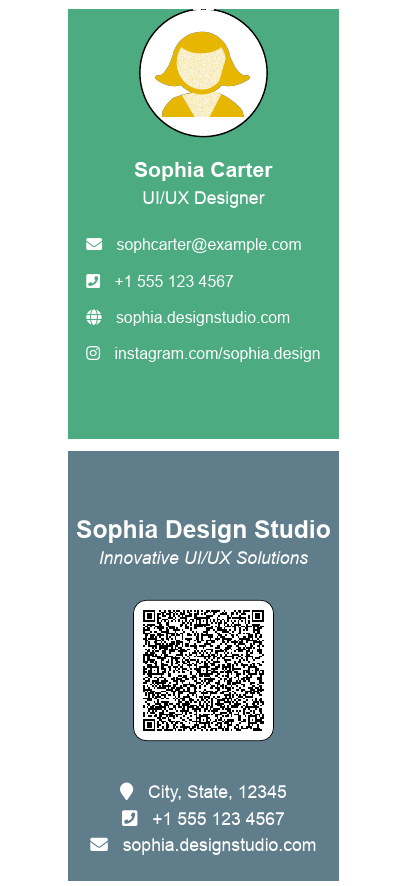
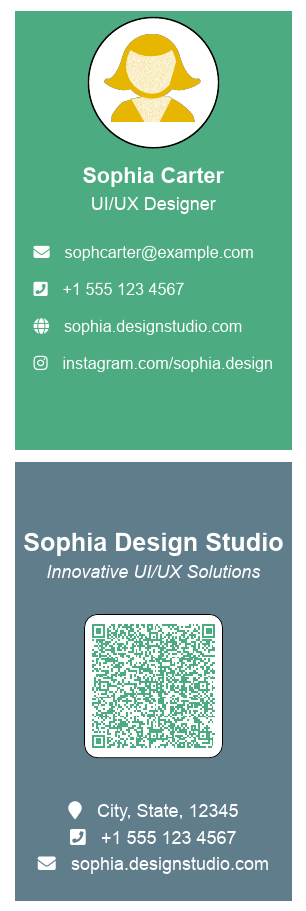
Updated design visuals and refreshed LaTeX template.

diff --git a/modern/UI_UX_Designer/main.tex b/modern/UI_UX_Designer/main.tex
@@ -37,7 +37,7 @@
 		
 		% Profile picture (example as a circle)
 		\draw[fill=white,thick] 
-		([yshift=-0.5in]current page.north) 
+		([yshift=-0.55in]current page.north) 
 		circle (0.5in);
 		\node at ([yshift=-0.5in]current page.north) {
 			\includegraphics[width=0.8in]{figures/logo}
@@ -84,25 +84,30 @@
 			\begin{tikzpicture}
 				% Rounded rectangle background
 				\draw[fill=white,rounded corners=0.1in] 
-				(-0.55in,-0.55in) rectangle (0.55in,0.55in);
-				% QR code generation
-				\node[anchor=center] {\qrcode[height=\qrheight]{BEGIN:VCARD
-						VERSION:3.0
-						N:Carter;Sophia;;Ms.
-						FN:Ms. Sophia Carter
-						TITLE:UI/UX Designer
-						ORG:Sophia Design Studio
-						TEL;TYPE=MOBILE:+1-555-123-4567
-						EMAIL:sophia.carter@example.com
-						URL:https://sophia.designstudio.com
-						ADR;TYPE=WORK,PREF:;;;City;State;12345;USA
-						REV:2024-11-23T12:00:00Z
-						END:VCARD}};
-		\end{tikzpicture}
-	};
+				(-0.55in,-0.55in) rectangle (0.51in,0.55in);
+				% QR code generation with custom color
+				\node[anchor=center] {
+					\textcolor{primarycolor}{ % Set QR code color here (e.g., "blue")
+						\qrcode[height=\qrheight]{BEGIN:VCARD
+							VERSION:3.0
+							N:Carter;Sophia;;Ms.
+							FN:Ms. Sophia Carter
+							TITLE:UI/UX Designer
+							ORG:Sophia Design Studio
+							TEL;TYPE=MOBILE:+1-555-123-4567
+							EMAIL:sophia.carter@example.com
+							URL:https://sophia.designstudio.com
+							ADR;TYPE=WORK,PREF:;;;City;State;12345;USA
+							REV:2024-11-23T12:00:00Z
+							END:VCARD}
+					}
+				};
+			\end{tikzpicture}
+		};
+		
 	
 	% Address and contact information
-	\node[anchor=south,align=center,text=textcolor] 
+	\node[anchor=south,align=center,text=textcolor]  
 	at ([yshift=0.2in]current page.south) {
 		\faMapMarker \hspace{0.2cm} City, State, 12345 \\ [0.1cm]
 		\faPhoneSquare \hspace{0.2cm} +1 555 123 4567 \\[0.1cm]
